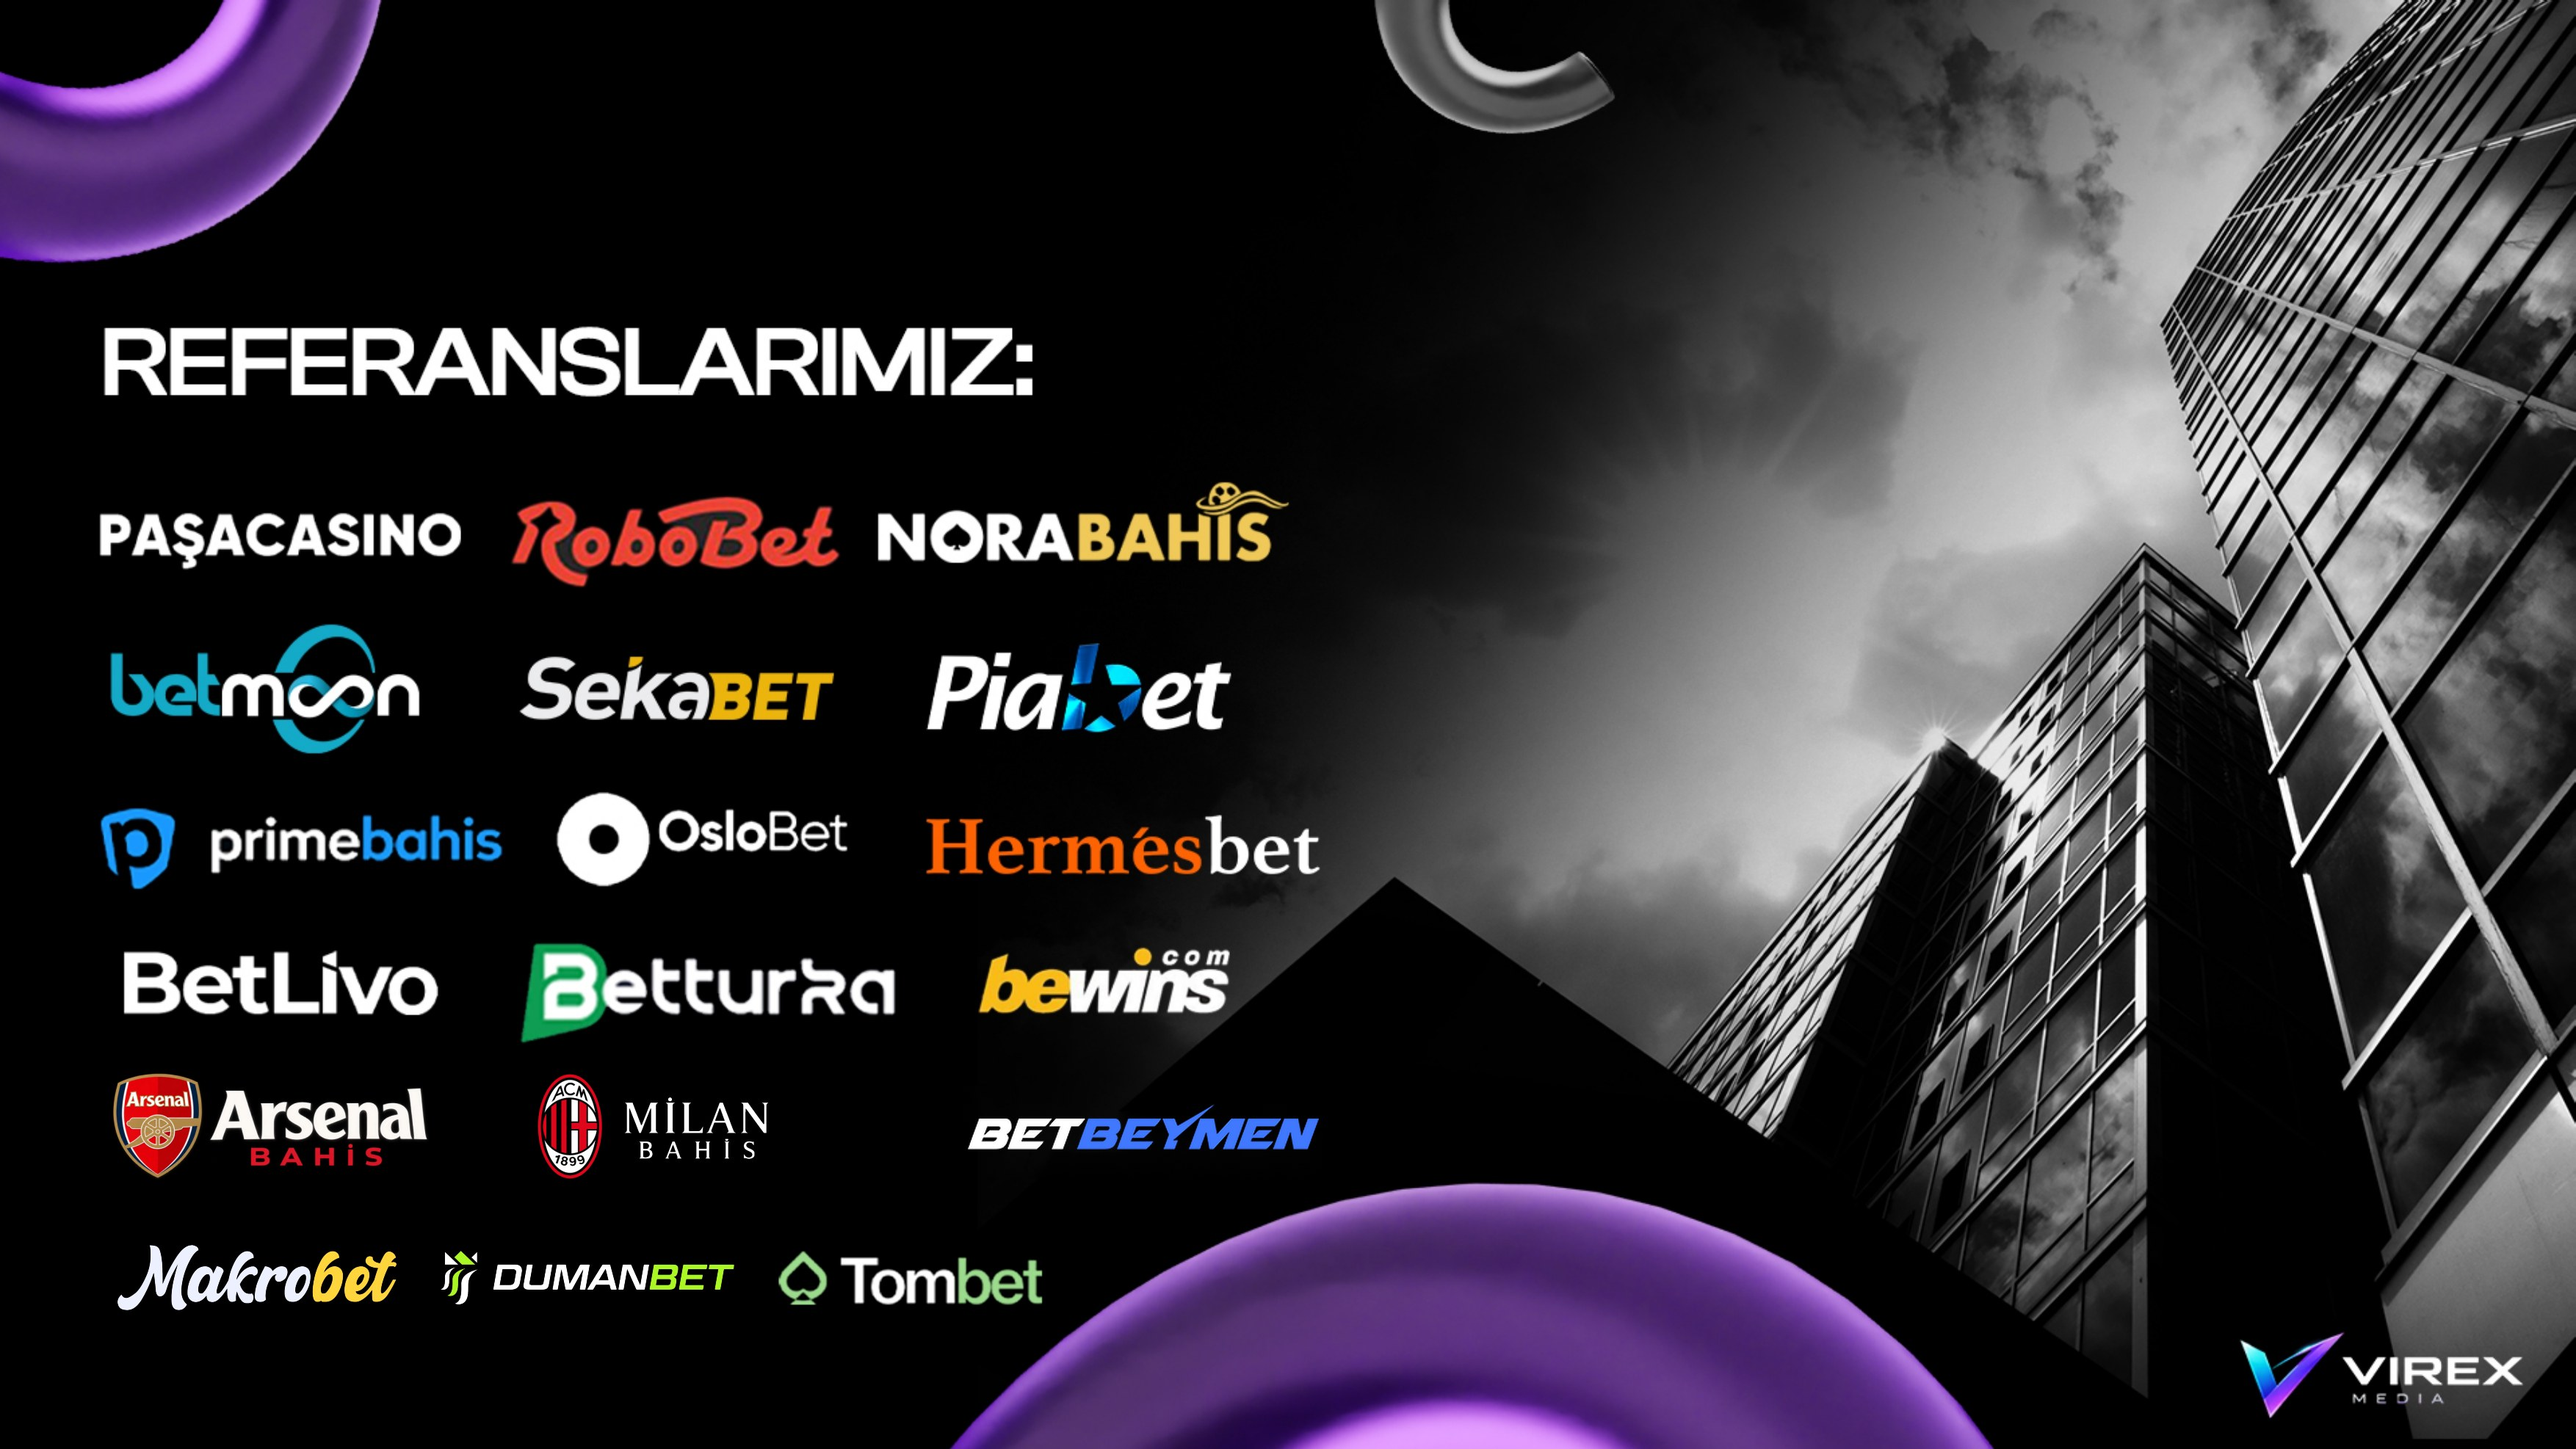
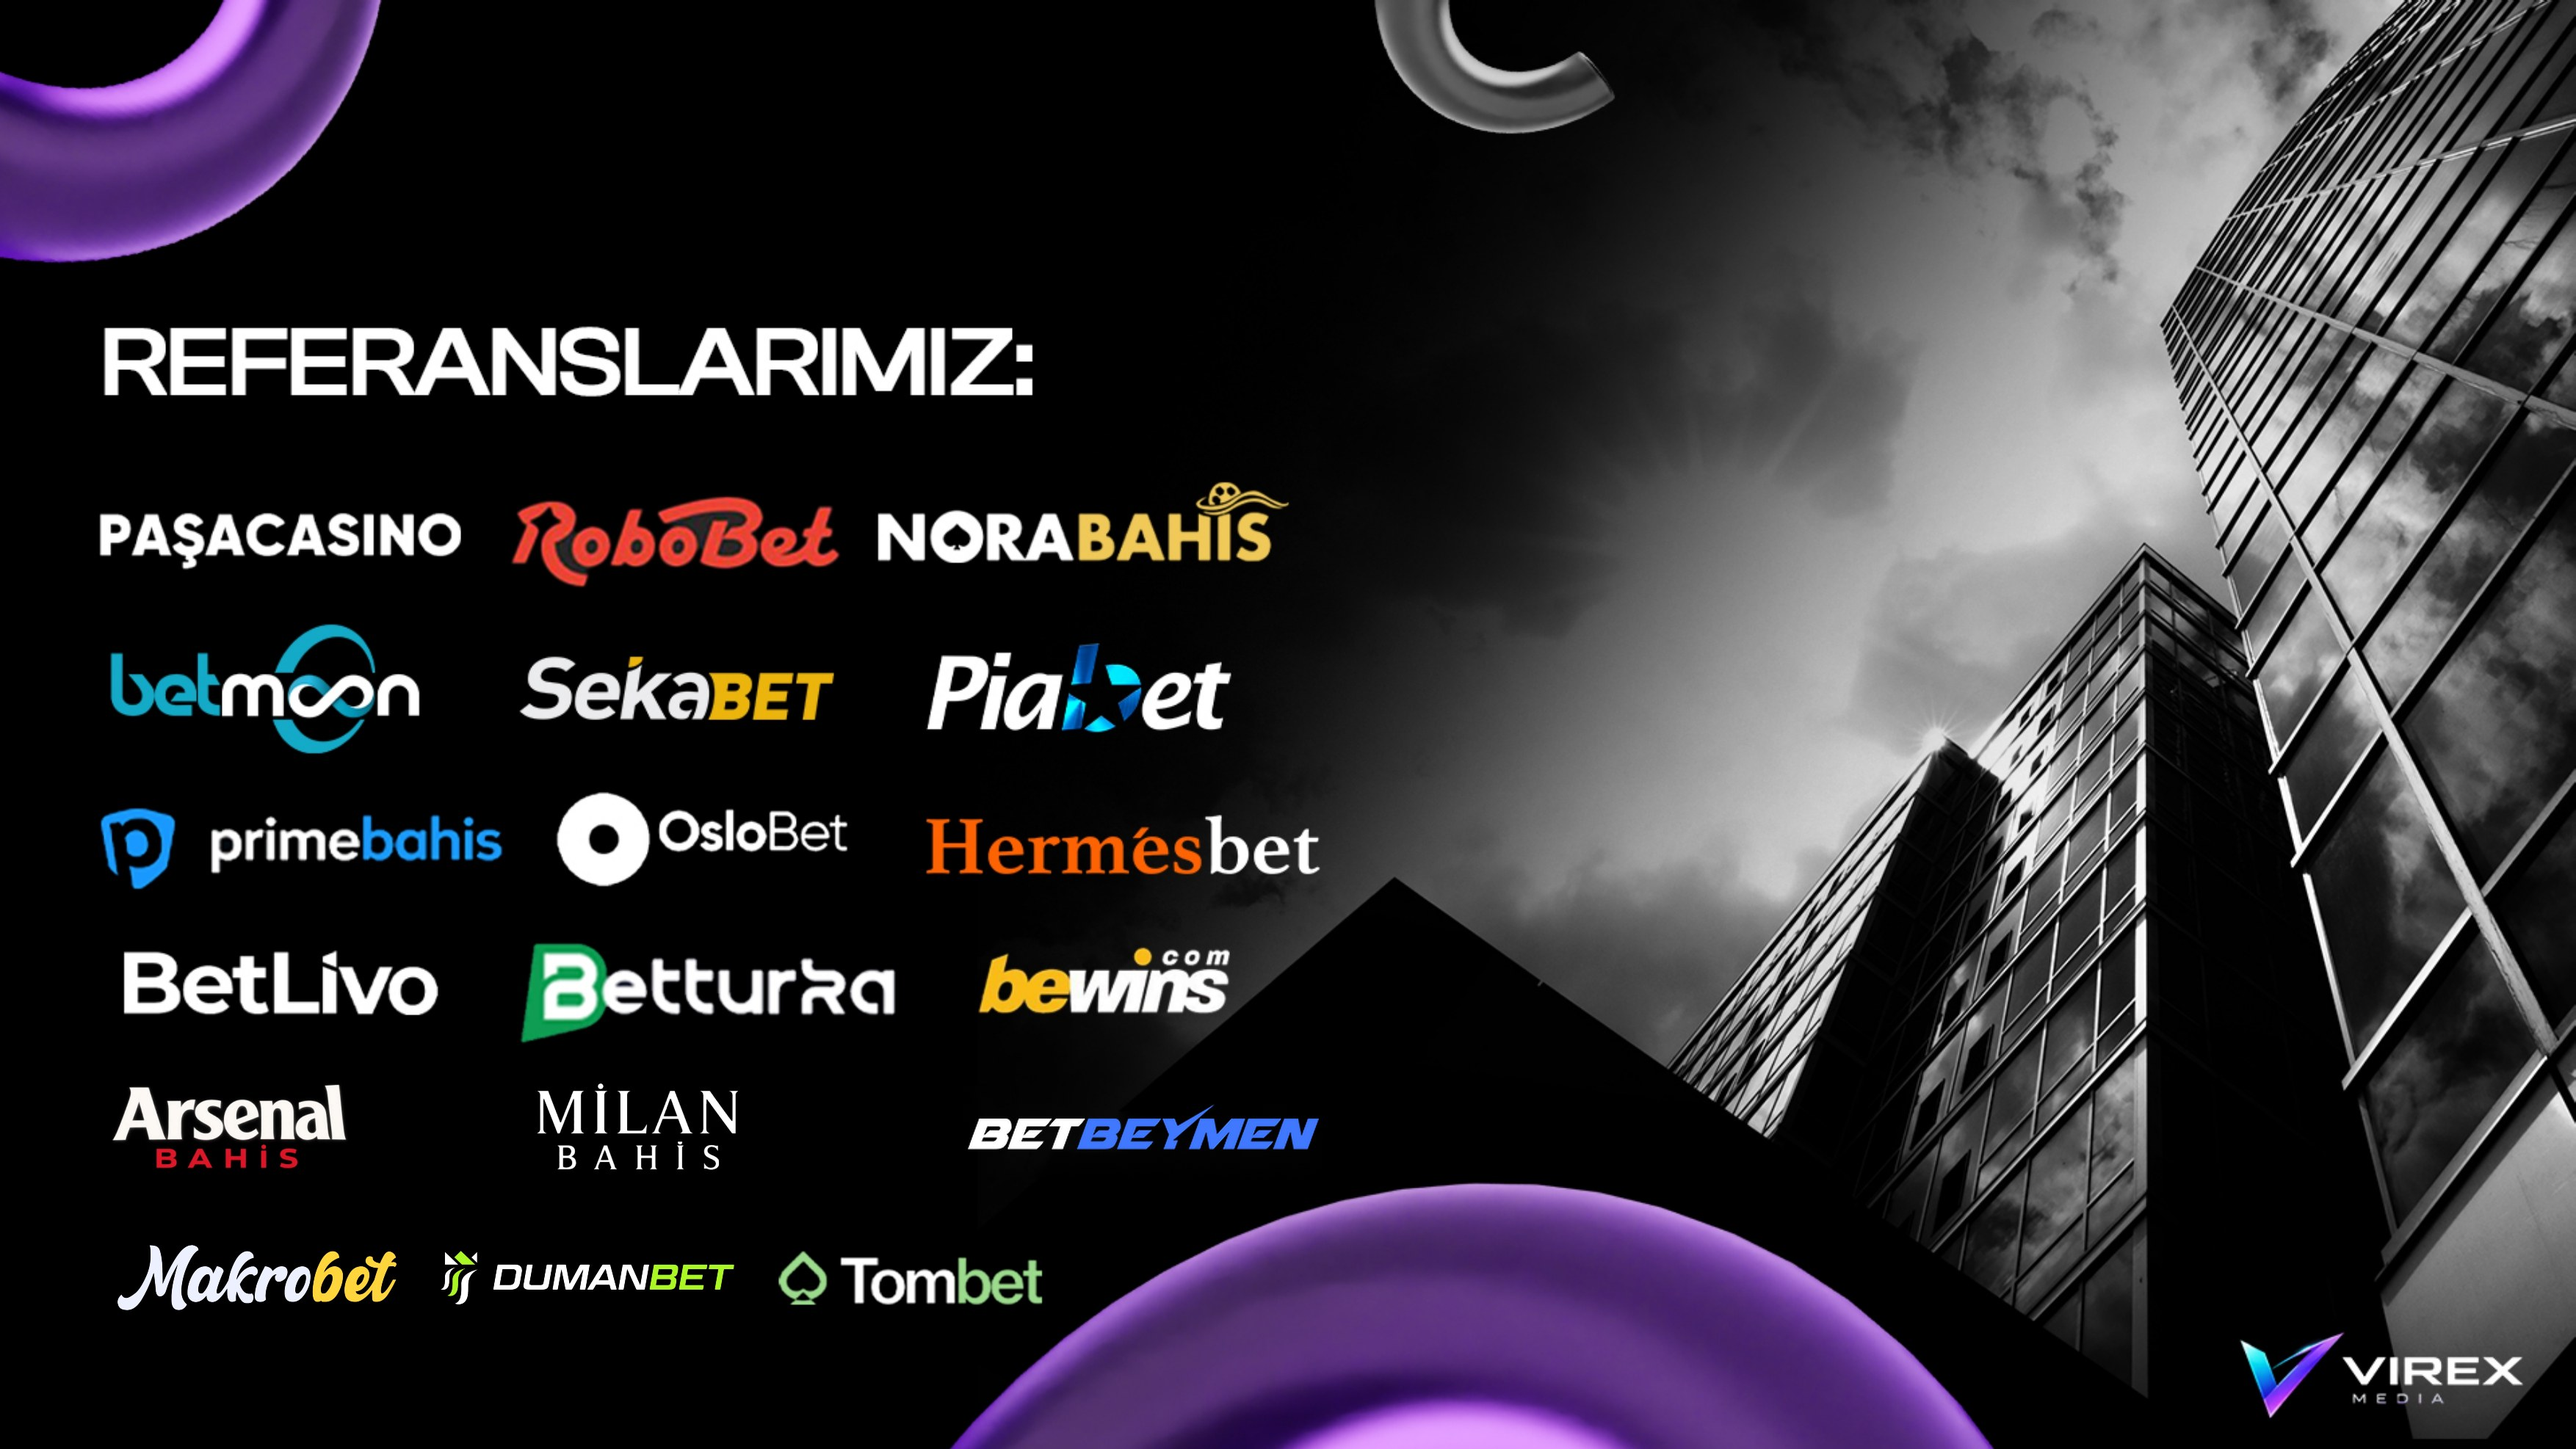
fix: ArsenalBahis ve MilanBahis logolarından kulüp armalarını kırp
Arsenal FC ve AC Milan armaları marka ihlali riski nedeniyle kaldırıldı;
logolarda yalnızca "Arsenal BAHİS" ve "MİLAN BAHİS" yazıları kaldı.
Şerit dosyaları ve Referanslarımız slaytı (slide5, ?v=3) güncellendi;
şerit yükseklikleri yeni orana göre ayarlandı (38px / 40px).

Changed region(s): [[0.0311, 0.7416, 0.3107, 0.8343]]

diff --git a/index.html b/index.html
@@ -1516,7 +1516,7 @@ body.intro-active {
           <div class="showcase-slide"><img src="https://virexmedia.net/images/slide2.jpg" alt="Virex Media ekibi"></div>
           <div class="showcase-slide"><img src="https://virexmedia.net/images/slide3.jpg" alt="Sosyal medya hizmetleri"></div>
           <div class="showcase-slide"><img src="https://virexmedia.net/images/slide4.jpg" alt="İş akışı ve proje süreci"></div>
-          <div class="showcase-slide"><img src="https://virexmedia.net/images/slide5.jpg?v=2" alt="Müşteri referansları"></div>
+          <div class="showcase-slide"><img src="https://virexmedia.net/images/slide5.jpg?v=3" alt="Müşteri referansları"></div>
           <div class="showcase-slide"><img src="https://virexmedia.net/images/slide6.jpg" alt="Neden Virex Media"></div>
           <div class="showcase-slide"><img src="https://virexmedia.net/images/slide7.jpg?v=2" alt="İletişim bilgileri"></div>
         </div>
@@ -1536,9 +1536,9 @@ body.intro-active {
     <p class="logos-label">Güvenilen Markalar Bizimle Büyüyor</p>
     <div class="logos-track-wrap">
       <div class="logos-track" id="logosTrack">
-        <img src="images/logos/arsenalbahis.png" alt="ArsenalBahis" style="height:44px;">
+        <img src="images/logos/arsenalbahis.png" alt="ArsenalBahis" style="height:38px;">
         <img src="images/logos/betbeymen.png" alt="Betbeymen" style="height:34px;">
-        <img src="images/logos/milanbahis.png" alt="MilanBahis" style="height:44px;">
+        <img src="images/logos/milanbahis.png" alt="MilanBahis" style="height:40px;">
         <img src="images/logos/makrobet.svg" alt="Makrobet" style="height:30px;">
         <img src="images/logos/dumanbet.svg" alt="Dumanbet" style="height:26px;">
         <img src="images/logos/robobet.png" alt="RoboBet">
